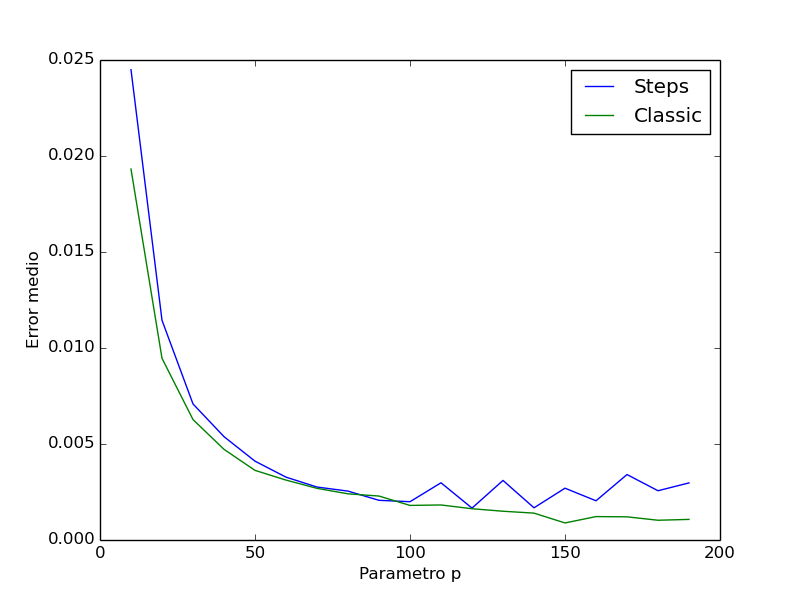
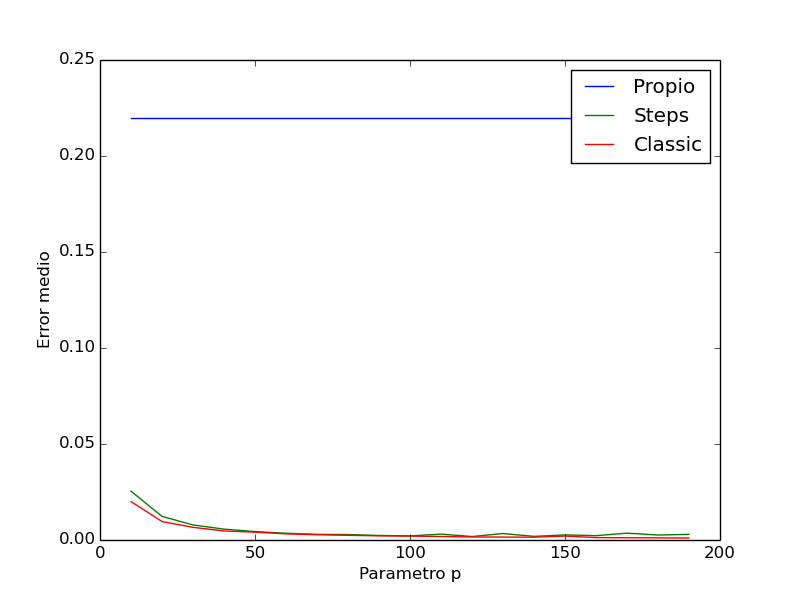
typo

diff --git a/tp2/source/empirico.py b/tp2/source/empirico.py
@@ -39,8 +39,8 @@ def calcular_error(archivo, tipo_estimador, tipo):
             estimador = estimators.ClassicHistogram(archivo, 'datos', 'c', p)
         elif tipo_estimador == "steps":
             estimador = estimators.DistributionSteps(archivo, 'datos', 'c', p)
-        elif tipos_estimadores == "propio":
-            estimador = estimator.EstimadorGrupo(archivo, 'datos', 'c', p)
+        elif tipo_estimador == "propio":
+            estimador = estimators.EstimadorGrupo(archivo, 'datos', 'c', p)
         perfecto  = estimators.EstimadorPerfecto(archivo, 'datos', 'c', p)
         bd = InterfazBD(archivo)
         if tipo == "equal":
